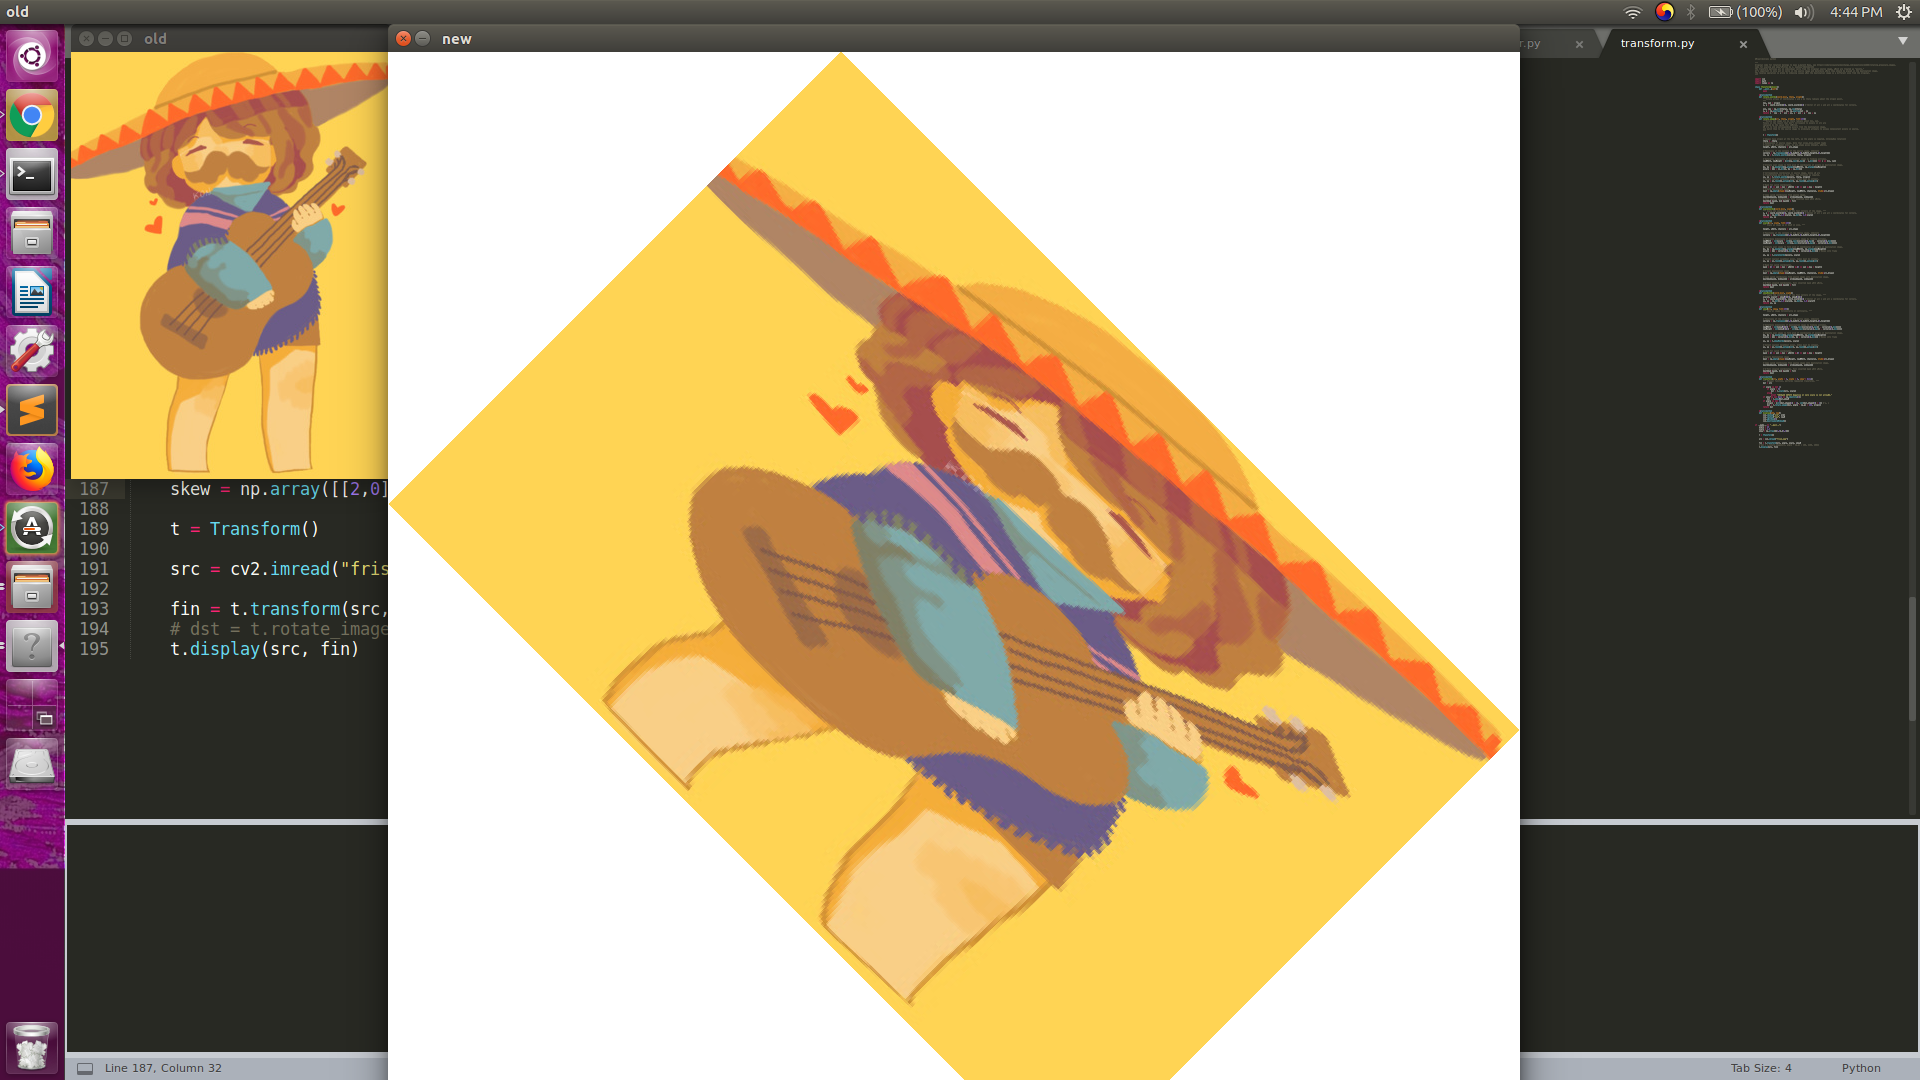
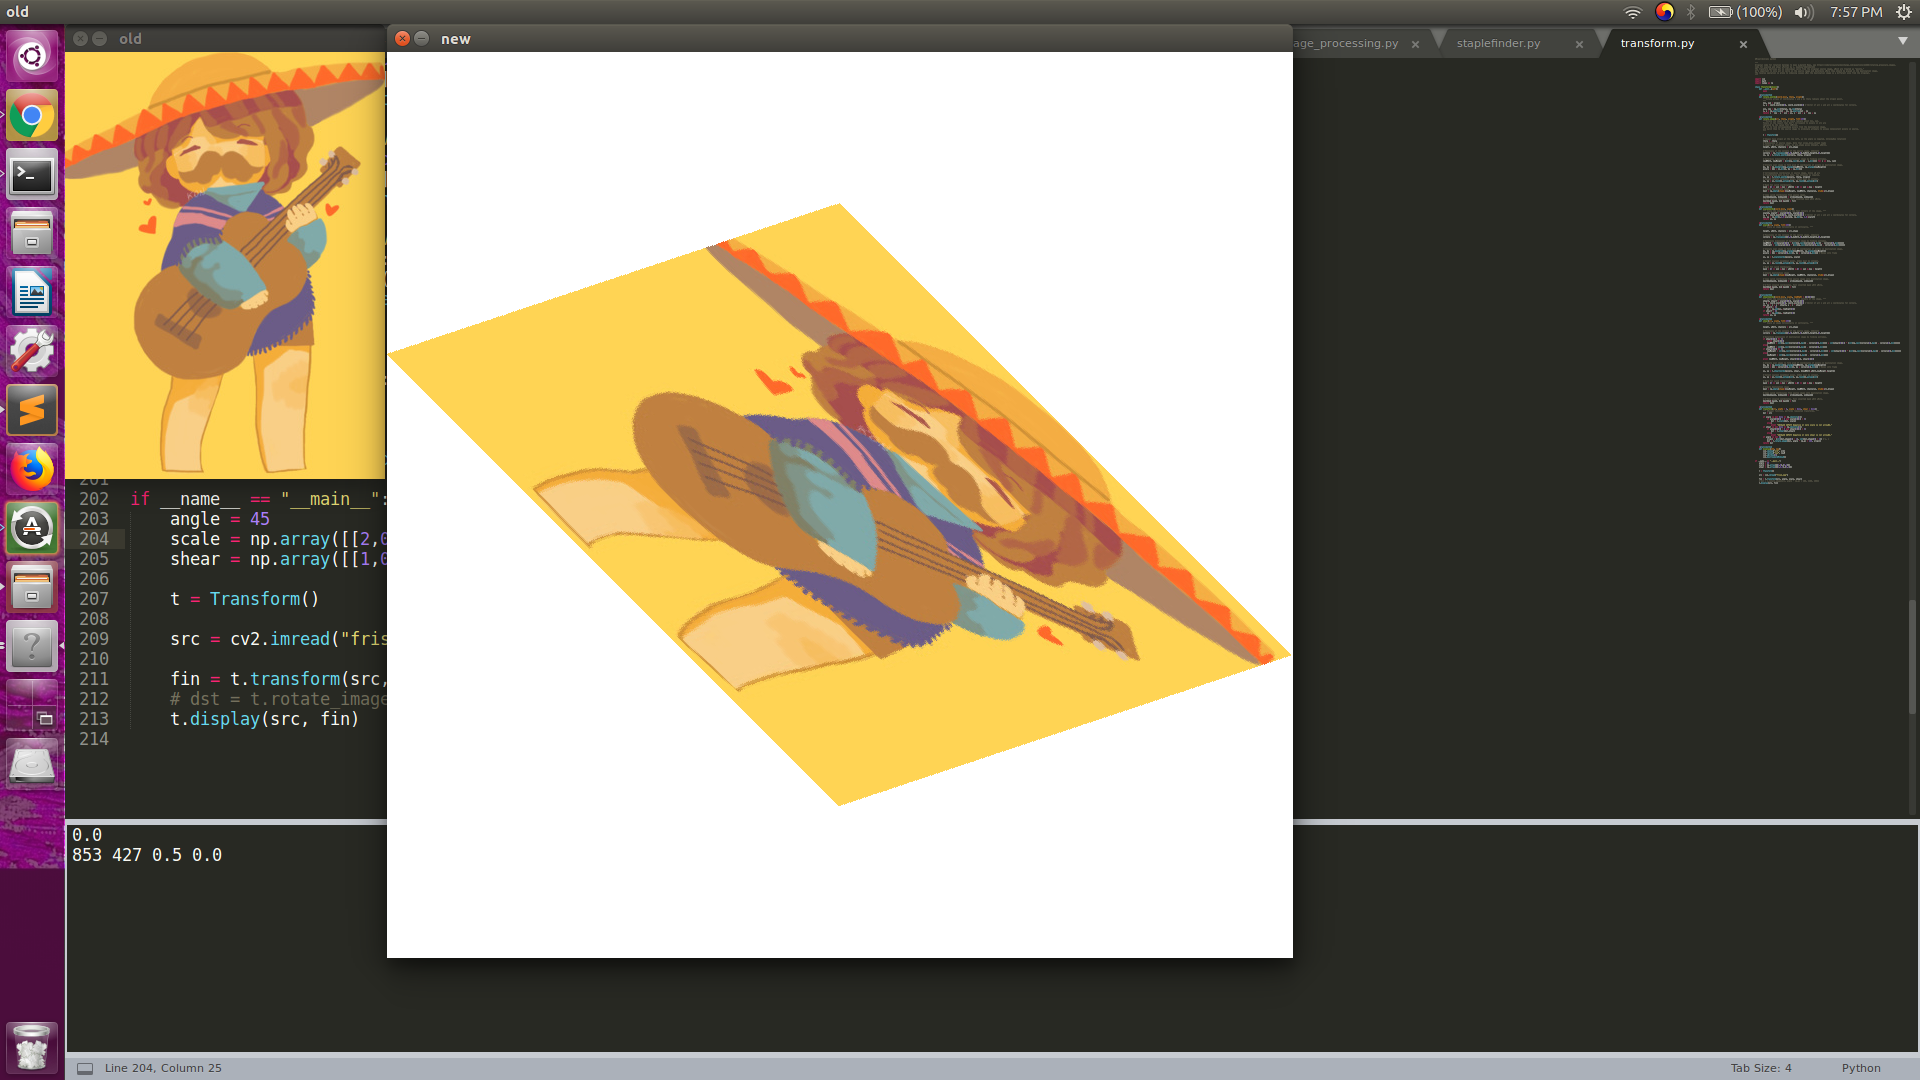
Fixes skew

diff --git a/transform.py b/transform.py
@@ -2,7 +2,7 @@
 
 """ 
 Original code for rotation belongs to Alex & Gareth Rees, see https://codereview.stackexchange.com/questions/41688/rotating-greyscale-images.
-Code for scaling and skew written by L. Zuehsow (Oktober13)
+Code for scaling and shear written by L. Zuehsow (Oktober13)
 The transform matrices act on individual cells from the original source image, which are treated as "points."
 It's important to only act on cells in the source image and determine where they should be placed in the destination image. 
 The reverse operation is prone to indexing issues when the destination image is a different size from the original.
@@ -75,13 +75,14 @@ class Transform(object):
 	@staticmethod
 	def scaleCoords(coord_list, scale):
 		""" Scale the coordinates of the four corners of the image. """
+		scaleX, scaleY = scale[0][0], scale[1][1]
 		x, y = coord_list[:][0], coord_list[:][1] # Vector of all x and all y coordinates for corners.
-		sx, sy = np.dot(x,1.0/scale), np.dot(y, 1.0/scale)
+		sx, sy = np.dot(x,1.0/scaleX), np.dot(y, 1.0/scaleY)
 		return sx, sy
 
 	@staticmethod
 	def scale(src, scale, fill=255):
-		""" Scale an image up or down in size. """
+		""" Scale an image horizontally or vertically. """
 
 		height, width, channels = src.shape
 
@@ -89,8 +90,8 @@ class Transform(object):
 		corners = np.transpose([[0,0],[width,0],[width,height],[0,height]])
 
 		# Determine dimensions of destination image by finding extremes.
-		newWidth = int(scale * int(np.ceil(corners[0].max() - corners[0].min())))
-		newHeight = int(scale * int(np.ceil(corners[1].max() - corners[1].min())))
+		newWidth = int(scale[0][0] * (int(np.ceil(corners[0].max() - corners[0].min()))))
+		newHeight = int(scale[1][1] * (int(np.ceil(corners[1].max() - corners[1].min()))))
 
 		# Iterate over image to form grid of coordinates of pixels in destination image.
 		dx, dy = np.meshgrid(np.arange(newWidth), np.arange(newHeight))
@@ -114,17 +115,22 @@ class Transform(object):
 		dest[dy[~mask], dx[~mask]] = fill
 		return dest
 
+
 	@staticmethod
-	def skewCoords(coord_list, scale):
-		""" Scale the coordinates of the four corners of the image. """
-		scaleX, scaleY = skew[0][0], skew[1][1]
+	def shearCoords(coord_list, scale, topRight = [[0][0]]):
+		""" Shear the coordinates of the four corners of the image. """
+		shearX, shearY = scale[0][1], scale[1][0]
 		x, y = coord_list[:][0], coord_list[:][1] # Vector of all x and all y coordinates for corners.
-		sx, sy = np.dot(x,1.0/scaleX), np.dot(y, 1.0/scaleY)
+		sx, sy = x + y * shearX, y + x * shearY
+		if shearX > 0:
+			sx = np.add(sx,-topRight[0])
+		if shearY > 0:
+			sy = np.add(sy,-topRight[1])
 		return sx, sy
 
 	@staticmethod
-	def skew(src, skew, fill=255):
-		""" Skew an image horizontally or vertically. """
+	def shear(src, scale, fill=255):
+		""" Scale an image horizontally or vertically. """
 
 		height, width, channels = src.shape
 
@@ -132,14 +138,23 @@ class Transform(object):
 		corners = np.transpose([[0,0],[width,0],[width,height],[0,height]])
 
 		# Determine dimensions of destination image by finding extremes.
-		newWidth = int(skew[0][0] * int(np.ceil(corners[0].max() - corners[0].min())))
-		newHeight = int(skew[1][1] * int(np.ceil(corners[1].max() - corners[1].min())))
+		if shear[0][1] != 0:
+			print shear[1][0]
+			newWidth = int(np.ceil(corners[0].max() - corners[0].min())) + int(shear[0][1] * (int(np.ceil(corners[1].max() - corners[1].min()))))
+		else:
+			newWidth = int(np.ceil(corners[0].max() - corners[0].min()))
+		if shear[1][0] != 0:
+			newHeight = int(np.ceil(corners[1].max() - corners[1].min())) + int(shear[1][0] * (int(np.ceil(corners[0].max() - corners[0].min()))))
+		else:
+			newHeight = int(np.ceil(corners[1].max() - corners[1].min()))
+
+		print newWidth, newHeight, shear[0][1], shear[1][0]
 
 		# Iterate over image to form grid of coordinates of pixels in destination image.
 		dx, dy = np.meshgrid(np.arange(newWidth), np.arange(newHeight))
 		pixels = [dx + corners[0].min(), dy + corners[1].min()] # Moves into frame
 
-		sx, sy = t.skewCoords(pixels, scale)
+		sx, sy = t.shearCoords(pixels, shear, [newWidth-width,newHeight-height])
 
 		# Select nearest neighbour pixel. Index must be integer.
 		sx, sy = sx.round().astype(int), sy.round().astype(int)
@@ -158,20 +173,20 @@ class Transform(object):
 		return dest
 
 	@staticmethod
-	def transform(src, angle = 0, scale = 0, skew = None):
+	def transform(src, angle = 0, scale = None, shear = None):
 		""" Wrapper function, performs requested transforms. """
 		dst = src
 
-		if scale is not 1:
-			if scale > 0:
-				dst = t.scale(src, scale)
+		if scale is not None or np.identity(2):
+			if scale[0][0] > 0 and scale[1][1] > 0:
+				dst = t.scale(dst, scale)
 			else:
 				print "INVALID INPUT: Negative or zero scale is not allowed."
-		if skew is not None or np.identity(2):
-			if skew[0][0] > 0 and skew[1][1] > 0:
-				dst = t.skew(dst,skew)
+		if shear is not None or np.identity(2):
+			if shear[0][0] > 0 and shear[1][1] > 0:
+				dst = t.shear(dst,shear)
 			else:
-				print "INVALID INPUT: Negative or zero skews are not allowed."
+				print "INVALID INPUT: Negative or zero shear is not allowed."
 		if angle is not 0:
 			origin = (int(dst.shape[1] / 2), int(dst.shape[0] / 2)) # y, x
 			dst = t.rotate_image(dst, angle * np.pi / 180, origin)
@@ -186,13 +201,13 @@ class Transform(object):
 
 if __name__ == "__main__":
 	angle = 45
-	scale = 1.5
-	skew = np.array([[2,0],[0,1]])
+	scale = np.array([[2,0],[0,1]])
+	shear = np.array([[1,0.5],[0,1]])
 
 	t = Transform()
 
 	src = cv2.imread("frisk.jpg")
 
-	fin = t.transform(src, angle, scale, skew)
+	fin = t.transform(src, angle, scale, shear)
 	# dst = t.rotate_image(src, angle * np.pi / 180, (100, 100))
 	t.display(src, fin)
